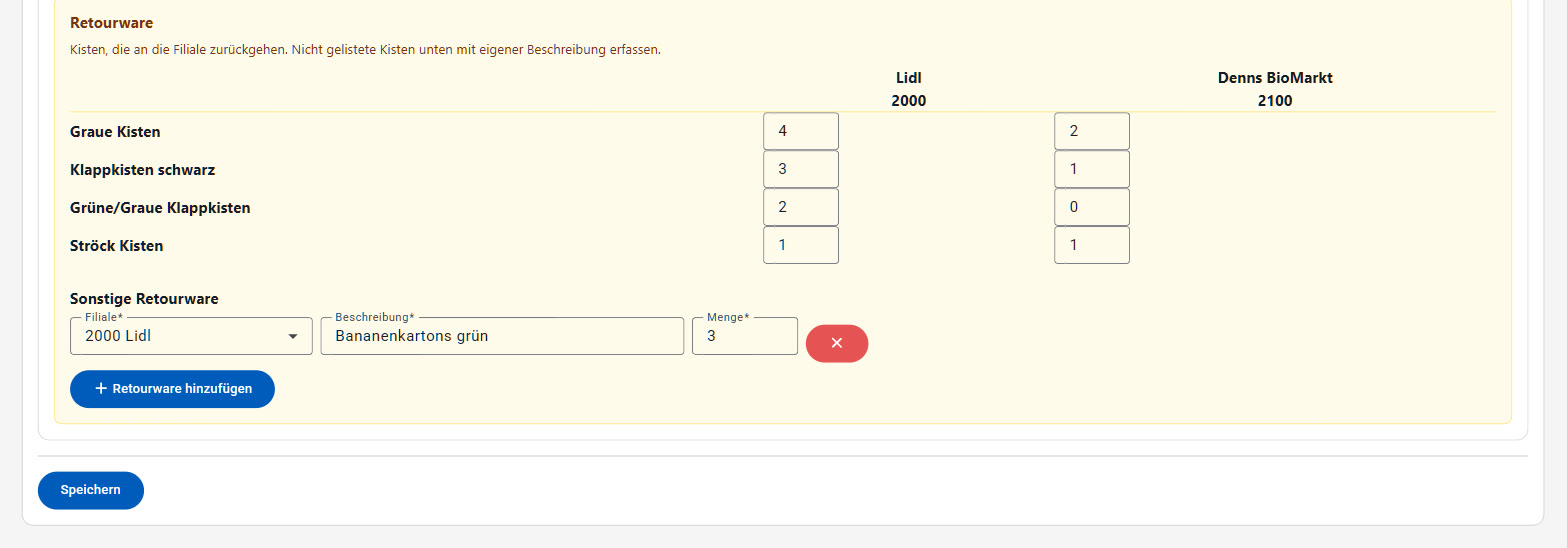
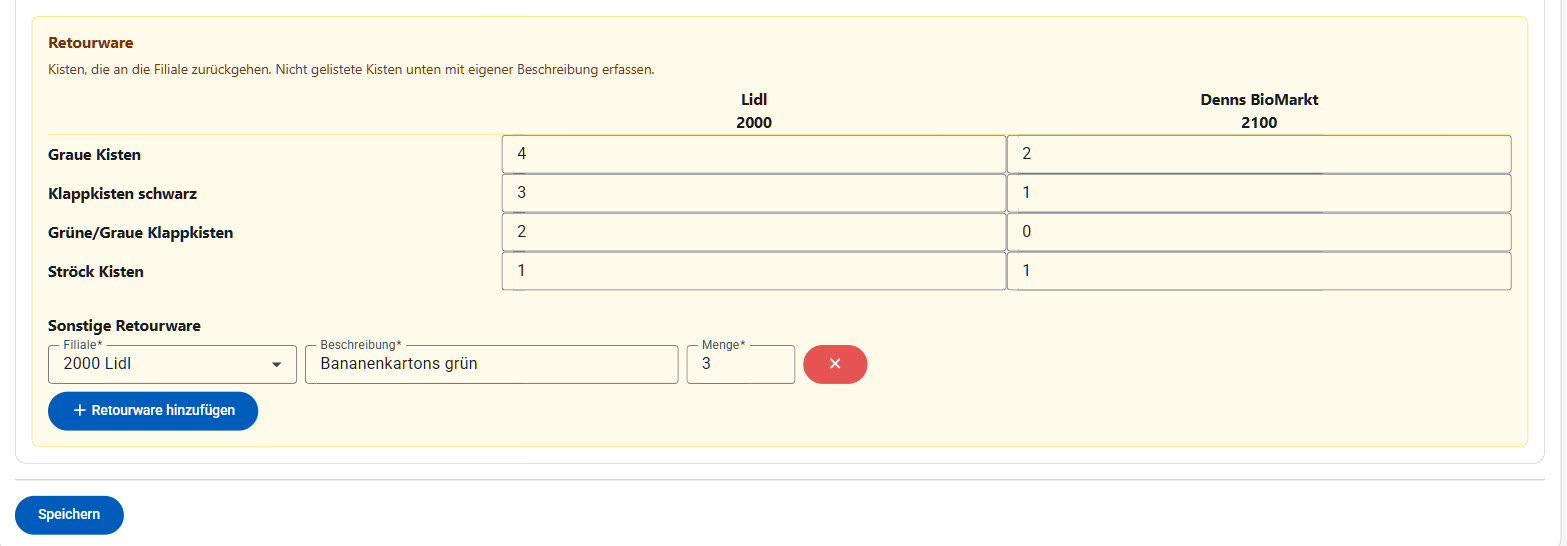
fix(logistics): match the Warenmenge panel to its table and move km below the goods on phone
The Warenmenge panel was sky-blue around a green table - it uses the same green as
the valid-row highlight now.

The mileage swaps position with the layout: still first on desktop, which is filled
in one go once the car is back, but below the goods on the phone, where the co-driver
counts shop by shop on the road and only knows the mileage at the end. Two e2e
assertions pin the DOM order down per layout.

Also: the amount inputs fill their whole table column instead of a fixed 5em leaving
dead space under wide shop headers, the remove button of a free-text return row aligns
with the top of its fields, and the km fields sit closer together on narrow screens.

diff --git a/frontend/src/main/webapp/src/app/modules/logistics/views/food-collection-recording-items-desktop/food-collection-recording-items-desktop.component.html b/frontend/src/main/webapp/src/app/modules/logistics/views/food-collection-recording-items-desktop/food-collection-recording-items-desktop.component.html
@@ -1,8 +1,8 @@
 @if (formReady()) {
   <form [formGroup]="form" autocomplete="off">
-    <div class="mt-6 rounded-lg border border-sky-200 bg-sky-50 p-4" testid="items-section">
-      <h6 class="font-bold text-sky-900 mb-2">Warenmenge</h6>
-      <table class="min-w-full divide-y divide-sky-200" testid="items-table">
+    <div class="mt-6 rounded-lg border border-green-200 bg-green-50 p-4" testid="items-section">
+      <h6 class="font-bold text-green-900 mb-2">Warenmenge</h6>
+      <table class="min-w-full divide-y divide-green-200" testid="items-table">
         <thead>
         <tr>
           <th scope="col"></th>
@@ -19,7 +19,7 @@
               <ng-container formArrayName="shops">
                 @for (shop of getShops(categoryIndex).controls; let shopIndex = $index; track shop) {
                   <td [formGroupName]="shopIndex">
-                    <mat-form-field subscriptSizing="dynamic" style="min-width: 3.6em; max-width: 5em;">
+                    <mat-form-field subscriptSizing="dynamic" class="w-full">
                       <input matInput type="number" min="0"
                              [attr.testid]="'category-' + foodCategories()?.[categoryIndex]?.id + '-shop-' + selectedRouteData()?.shops?.[shopIndex]?.id + '-input'"
                              formControlName="amount">
@@ -55,7 +55,7 @@
               <ng-container formArrayName="shops">
                 @for (shop of getReturnCategoryShops(categoryIndex).controls; let shopIndex = $index; track shop) {
                   <td [formGroupName]="shopIndex">
-                    <mat-form-field subscriptSizing="dynamic" style="min-width: 3.6em; max-width: 5em;">
+                    <mat-form-field subscriptSizing="dynamic" class="w-full">
                       <input matInput type="number" min="0"
                              [attr.testid]="'return-category-' + foodReturnCategories()?.[categoryIndex]?.id + '-shop-' + selectedRouteData()?.shops?.[shopIndex]?.id + '-input'"
                              formControlName="amount">
@@ -103,7 +103,7 @@
                 <mat-error>Mindestens 1</mat-error>
               }
             </mat-form-field>
-            <button type="button" matButton="filled" class="button-danger mt-2"
+            <button type="button" matButton="filled" class="button-danger"
                     [attr.testid]="'return-item-' + returnItemIndex + '-remove-button'"
                     (click)="removeReturnItem(returnItemIndex)">
               <fa-icon [icon]="faRemove"></fa-icon>

diff --git a/frontend/src/main/webapp/cypress/e2e/food-collection-recording.cy.ts b/frontend/src/main/webapp/cypress/e2e/food-collection-recording.cy.ts
@@ -22,6 +22,8 @@ describe('Food Collection Recording', () => {
       selectExistingCoDriver();
 
       cy.byTestId('select-items-tab').click();
+      // filled in one go once the car is back, so the mileage reads before the amounts
+      assertKmIsBefore('items-section');
       enterKmData();
       fillCategories();
       fillReturnCategories();
@@ -98,6 +100,9 @@ describe('Food Collection Recording', () => {
       selectExistingCoDriver();
 
       cy.byTestId('select-items-tab').click();
+      // counted shop by shop while still on the road - the mileage is only known at the very end,
+      // so on the phone it sits below the goods rather than above them
+      assertKmIsAfter('return-items-section');
       enterKmData();
 
       // The offline queue coalesces rapid same-field changes into fewer requests than one per
@@ -262,6 +267,28 @@ describe('Food Collection Recording', () => {
   function enterKmData() {
     cy.byTestId('kmStartInput').clear().type('1000');
     cy.byTestId('kmEndInput').clear().type('2000');
+  }
+
+  // The mileage swaps position between the two layouts, so assert on real DOM order rather than
+  // on the CSS classes that happen to produce it.
+  function assertKmIsBefore(sectionTestId: string) {
+    cy.byTestId(sectionTestId).then(($section) => {
+      cy.byTestId('kmStartInput').then(($km) => {
+        // eslint-disable-next-line no-bitwise
+        const kmComesAfterSection = $section[0].compareDocumentPosition($km[0]) & Node.DOCUMENT_POSITION_FOLLOWING;
+        expect(kmComesAfterSection, 'km input renders after ' + sectionTestId).to.equal(0);
+      });
+    });
+  }
+
+  function assertKmIsAfter(sectionTestId: string) {
+    cy.byTestId(sectionTestId).then(($section) => {
+      cy.byTestId('kmStartInput').then(($km) => {
+        // eslint-disable-next-line no-bitwise
+        const kmComesAfterSection = $section[0].compareDocumentPosition($km[0]) & Node.DOCUMENT_POSITION_FOLLOWING;
+        expect(kmComesAfterSection, 'km input renders after ' + sectionTestId).to.be.greaterThan(0);
+      });
+    });
   }
 
   function saveAndConfirmKmDiff() {

diff --git a/frontend/src/main/webapp/src/app/modules/logistics/views/food-collection-recording/food-collection-recording.component.html b/frontend/src/main/webapp/src/app/modules/logistics/views/food-collection-recording/food-collection-recording.component.html
@@ -43,9 +43,12 @@
           <ng-template mat-tab-label>
             <span testid="select-items-tab">Waren</span>
           </ng-template>
-          <tafel-food-collection-recording-km [selectedRouteData]="selectedRouteData()">
-          </tafel-food-collection-recording-km>
+          <!-- Desktop is filled in one go once the car is back, so the mileage reads first. On the
+               phone the amounts are counted shop by shop while still on the road and the mileage is
+               only known at the very end, so it moves below them. -->
           @if (isDesktopLayout()) {
+            <tafel-food-collection-recording-km [selectedRouteData]="selectedRouteData()">
+            </tafel-food-collection-recording-km>
             <tafel-food-collection-recording-items-desktop [foodCategories]="foodCategories()"
                                                            [foodReturnCategories]="foodReturnCategories()"
                                                            [selectedRouteData]="selectedRouteData()"></tafel-food-collection-recording-items-desktop>
@@ -53,6 +56,8 @@
             <tafel-food-collection-recording-items-responsive [foodCategories]="foodCategories()"
                                                               [foodReturnCategories]="foodReturnCategories()"
                                                               [selectedRouteData]="selectedRouteData()"></tafel-food-collection-recording-items-responsive>
+            <tafel-food-collection-recording-km [selectedRouteData]="selectedRouteData()">
+            </tafel-food-collection-recording-km>
           }
         </mat-tab>
       </mat-tab-group>

diff --git a/frontend/src/main/webapp/src/app/modules/logistics/views/food-collection-recording-items-responsive/food-collection-recording-items-responsive.component.html b/frontend/src/main/webapp/src/app/modules/logistics/views/food-collection-recording-items-responsive/food-collection-recording-items-responsive.component.html
@@ -29,8 +29,8 @@
         </button>
       </div>
     </div>
-    <div class="mt-6 rounded-lg border border-sky-200 bg-sky-50 p-4" testid="items-section">
-      <h6 class="font-bold text-sky-900 text-center mb-4">Warenmenge</h6>
+    <div class="mt-6 rounded-lg border border-green-200 bg-green-50 p-4" testid="items-section">
+      <h6 class="font-bold text-green-900 text-center mb-4">Warenmenge</h6>
       @for (category of foodCategories(); track category?.id) {
         <div class="flex flex-col">
           <div class="text-center">{{ category.name }}</div>
@@ -83,7 +83,7 @@
                 <mat-error>Mindestens 1</mat-error>
               }
             </mat-form-field>
-            <button type="button" matButton="filled" class="button-danger mt-2"
+            <button type="button" matButton="filled" class="button-danger"
                     [attr.testid]="'return-item-' + returnItemIndex + '-remove-button'"
                     (click)="removeReturnItem(returnItemIndex)">
               <fa-icon [icon]="faRemove"></fa-icon>

diff --git a/frontend/src/main/webapp/src/app/modules/logistics/views/food-collection-recording-km/food-collection-recording-km.component.html b/frontend/src/main/webapp/src/app/modules/logistics/views/food-collection-recording-km/food-collection-recording-km.component.html
@@ -1,6 +1,6 @@
 <form [formGroup]="form" autocomplete="off">
   <h6 class="font-bold pt-4">Kilometerstand</h6>
-  <div class="grid grid-cols-1 md:grid-cols-12 gap-6 mt-2">
+  <div class="grid grid-cols-1 gap-5 md:grid-cols-12 md:gap-6 mt-2">
     <div class="md:col-span-3">
       <mat-form-field class="w-full">
         <mat-label>KM Start</mat-label>
@@ -16,7 +16,7 @@
         }
       </mat-form-field>
     </div>
-    <div class="md:col-span-3 mt-4 md:mt-0">
+    <div class="md:col-span-3">
       <mat-form-field class="w-full">
         <mat-label>KM Ende</mat-label>
         <input matInput testid="kmEndInput" type="number" formControlName="kmEnd">

diff --git a/docs/userguide/logistik.md b/docs/userguide/logistik.md
@@ -18,7 +18,7 @@ Erfassung der Stammdaten der Route: verwendetes **Fahrzeug (KFZ)** sowie **Fahre
 
 #### Kilometerstand
 
-Am Beginn des Reiters wird unter der Überschrift **Kilometerstand** der Stand bei Start/Ende erfasst. Beide Werte werden erst eingetragen, wenn das Fahrzeug mit der Ware zurück ist — deshalb stehen sie hier und nicht bei den Stammdaten der Route. Die Angabe ist optional, es müssen aber immer beide Werte gemeinsam erfasst werden, und der Kilometerstand bei Ende muss größer sein als der bei Start. Übersteigt die Differenz 350 km, erscheint beim Speichern eine Sicherheitsabfrage ("Routenlänge überschritten... Ist das korrekt?"), die vor dem versehentlichen Erfassen einer falschen Strecke schützt.
+Unter der Überschrift **Kilometerstand** wird der Stand bei Start/Ende erfasst — am Desktop am Beginn des Reiters, auf schmalen Bildschirmen ganz am Ende, da dort unterwegs Geschäft für Geschäft erfasst wird und der Kilometerstand erst bei der Rückkehr feststeht. Beide Werte werden erst eingetragen, wenn das Fahrzeug mit der Ware zurück ist — deshalb stehen sie hier und nicht bei den Stammdaten der Route. Die Angabe ist optional, es müssen aber immer beide Werte gemeinsam erfasst werden, und der Kilometerstand bei Ende muss größer sein als der bei Start. Übersteigt die Differenz 350 km, erscheint beim Speichern eine Sicherheitsabfrage ("Routenlänge überschritten... Ist das korrekt?"), die vor dem versehentlichen Erfassen einer falschen Strecke schützt.
 
 #### Warenmenge
 

diff --git a/frontend/src/main/webapp/src/app/modules/logistics/README.md b/frontend/src/main/webapp/src/app/modules/logistics/README.md
@@ -109,8 +109,10 @@ the data the team fills in at departure. The odometer readings deliberately do
 
 `kmStart`/`kmEnd` sit on the *items* tab, not with the base data: they're read off
 the car when it's back with the goods, at the same moment the amounts are counted.
-The component renders once in the tab container, above whichever item layout is
-active, so both layouts share it.
+The component renders once in the tab container, but its **position depends on the
+layout**: above the desktop grid, which is filled in one go once the car is back,
+and *below* the responsive wizard, where the co-driver counts shop by shop while
+still on the road and only knows the mileage at the very end.
 
 - Both values are **optional**, but only as a pair — a form-level cross-field
   validator (`createKmValidation()`) rejects one-without-the-other
@@ -149,8 +151,9 @@ freshly saved data with its own stale form state.
 
 ### Section panels
 
-Both item layouts render two titled, colour-coded panels — **Warenmenge** (sky) and **Retourware**
-(amber) — so the two kinds of counting can't be confused at a glance. The km fields above them get
+Both item layouts render two titled, colour-coded panels — **Warenmenge** (green, matching the
+valid-row highlight inside its table) and **Retourware** (amber) — so the two kinds of counting
+can't be confused at a glance. The km fields above them get
 a plain heading and deliberately no panel: they belong to the route, not to a shop's counts.
 
 ### Retourware (both layouts)
